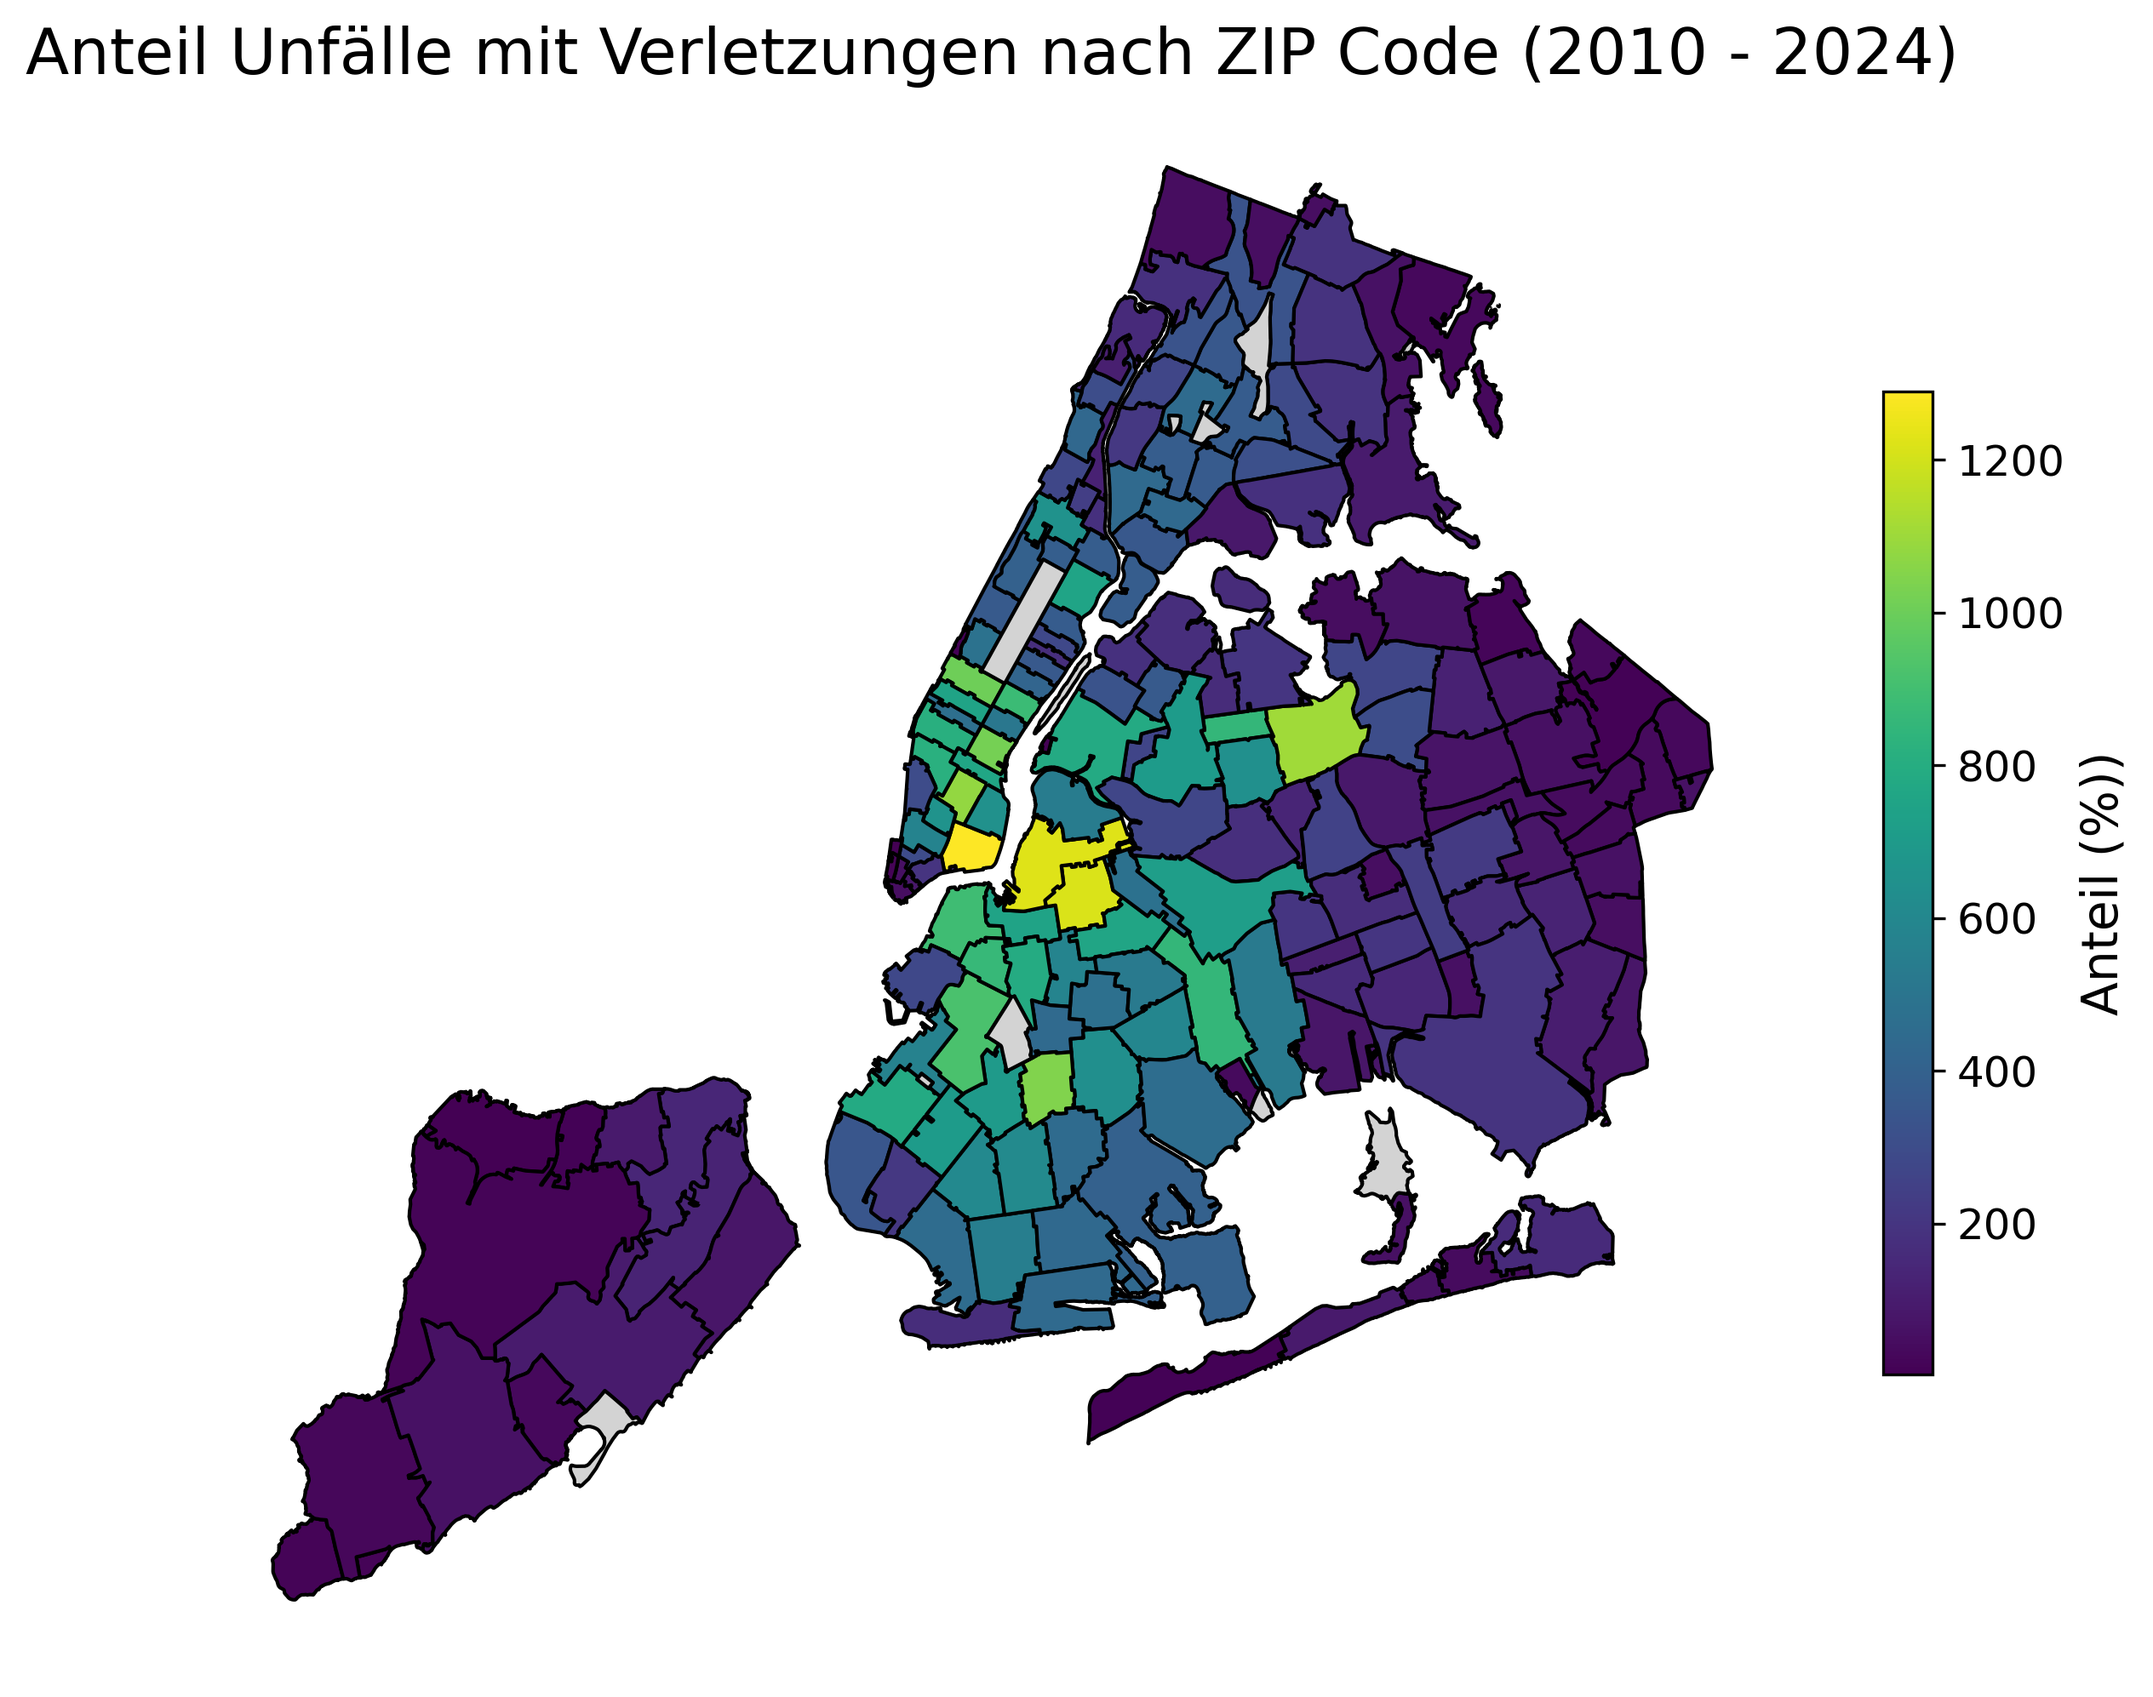
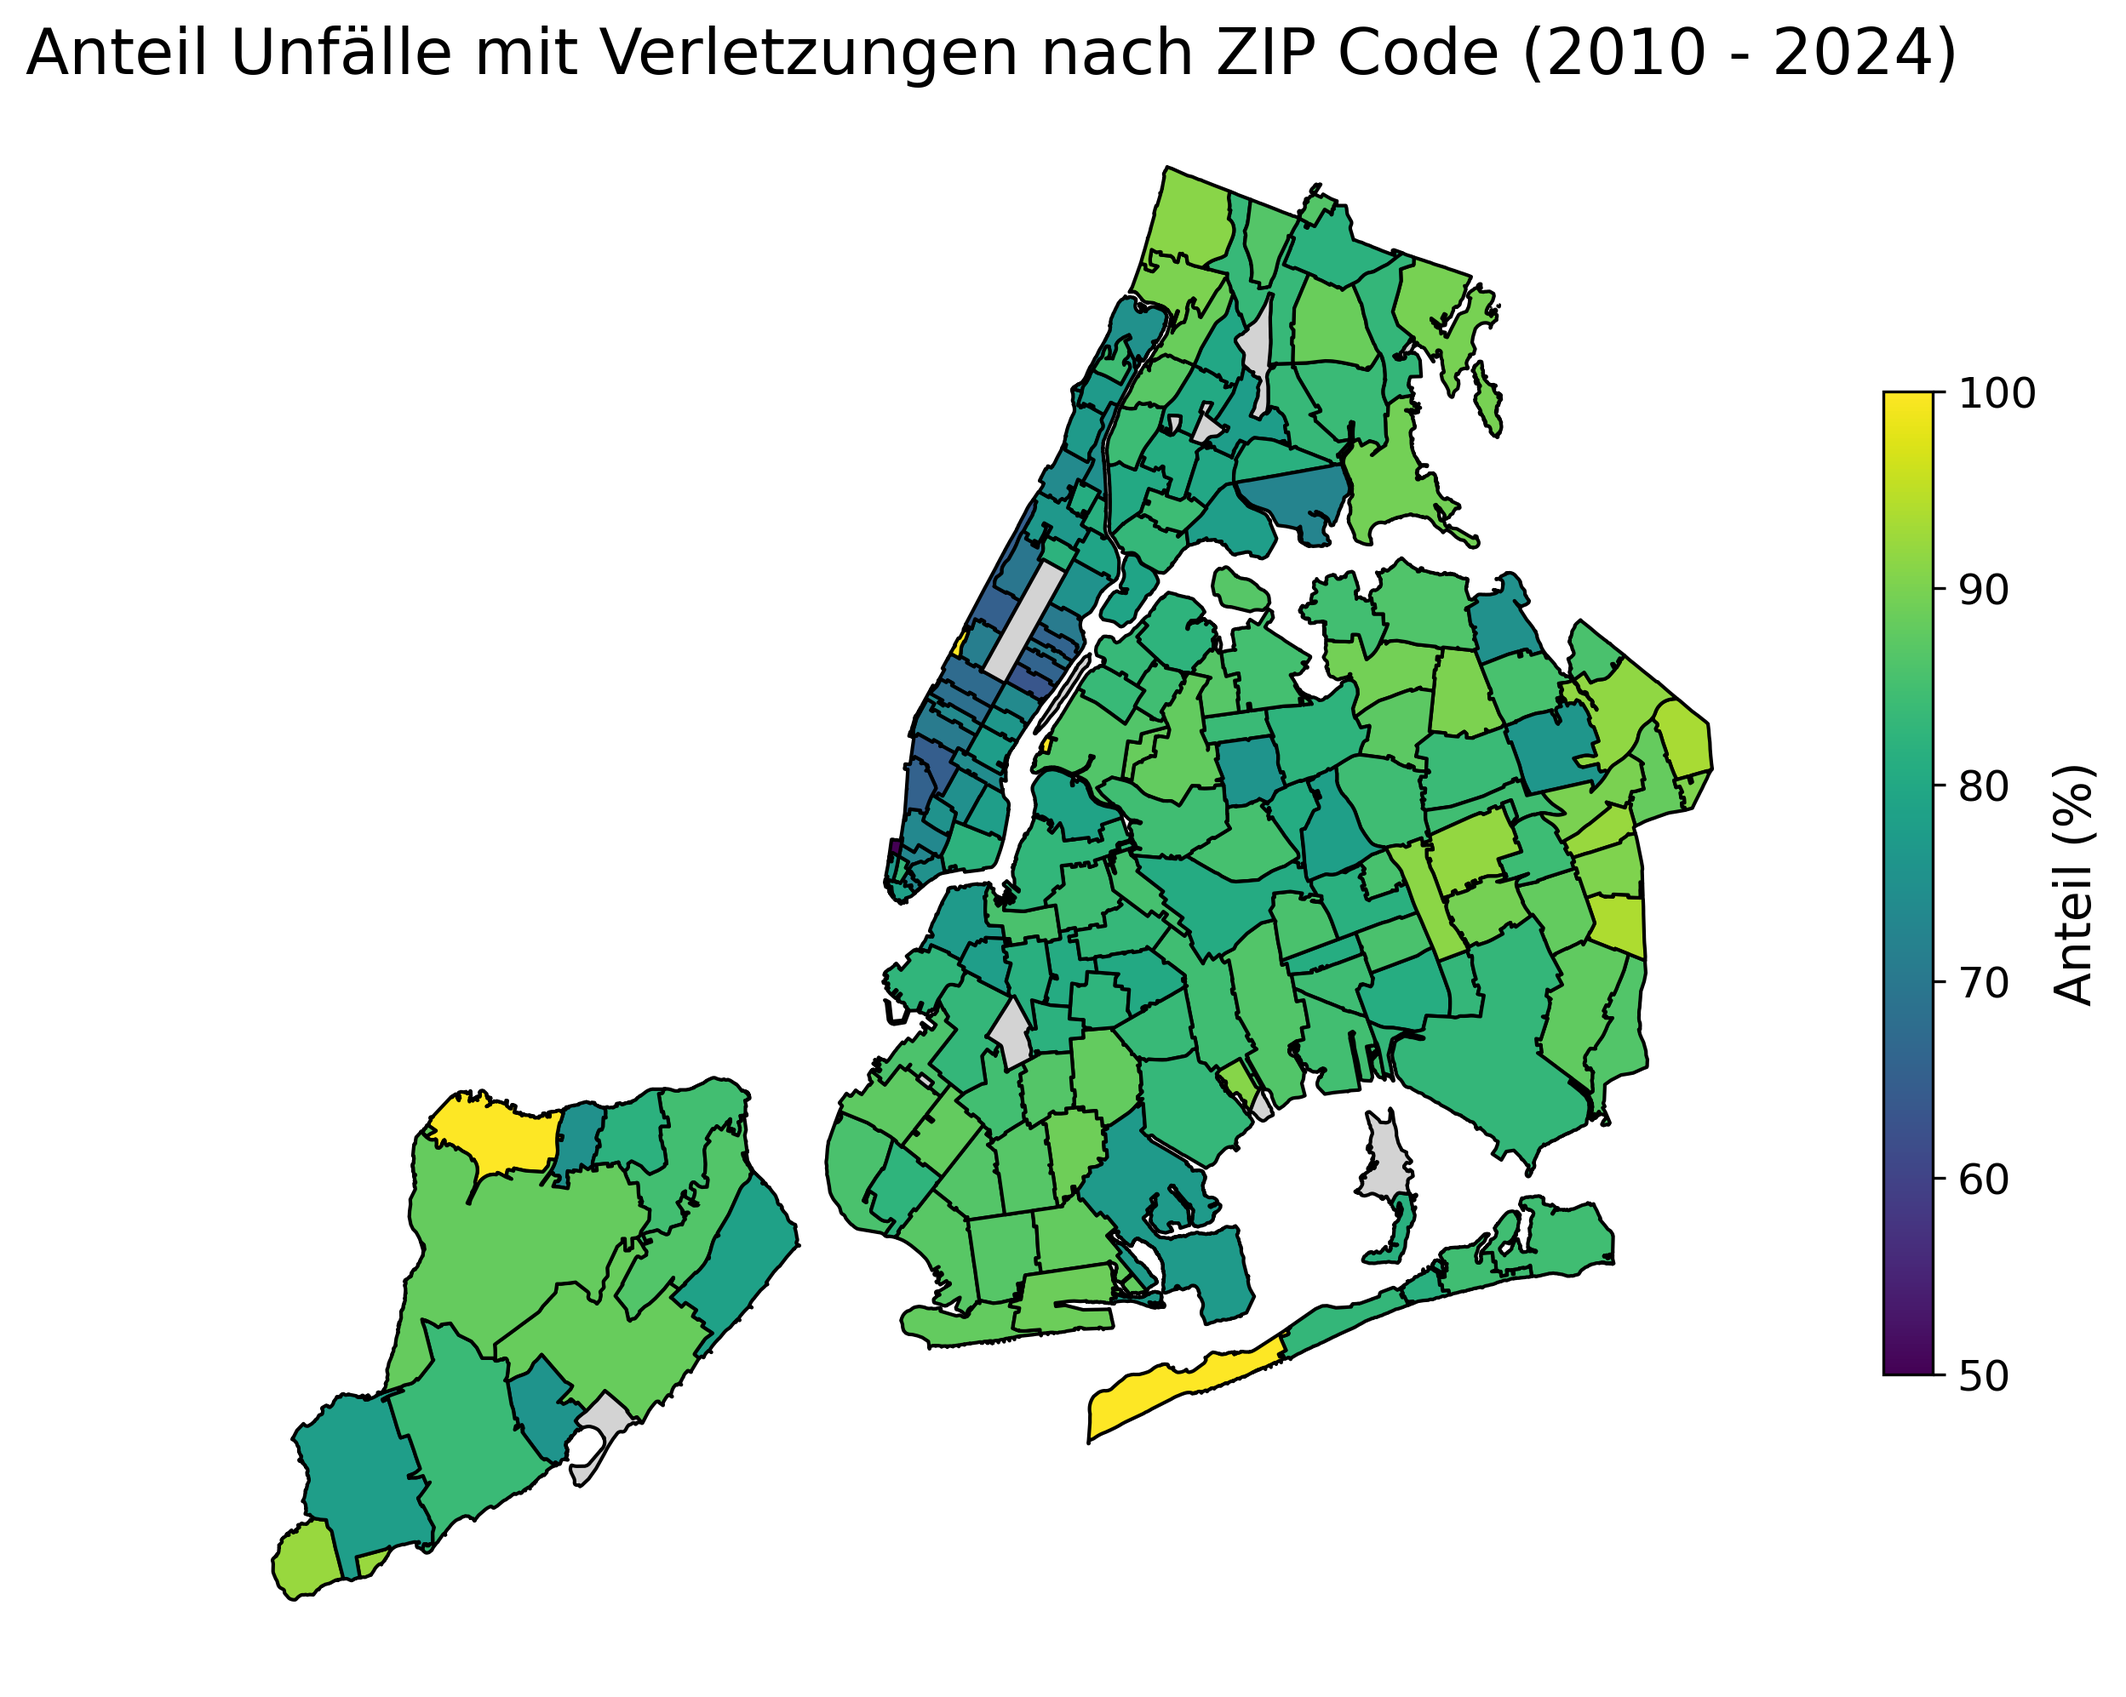
Adjust Typos

Changed region(s): [[0.1249, 0.0933, 0.8122, 0.9639], [0.0625, 0.0, 0.9059, 0.0622], [0.8746, 0.2177, 0.9996, 0.8084]]

diff --git a/02_analysis/descriptive_statistics_accidents.py b/02_analysis/descriptive_statistics_accidents.py
@@ -450,6 +450,7 @@ temp["zip_code"] = temp["zip_code"].astype(int).astype(str)
 # Extract values
 zip_codes = temp["zip_code"].tolist()
 bike_accidents = temp["bike_accidents"].tolist()
+injured_share = temp["injured_share"].tolist()
 
 # Call the map function
 sub_create_map.plot_zip_map(
@@ -463,9 +464,9 @@ sub_create_map.plot_zip_map(
 
 sub_create_map.plot_zip_map(
     zip_codes=zip_codes,
-    values=bike_accidents,
+    values=injured_share,
     output_name='bike_accidents_share_injured_zip',
     value_label='injured_share',
-    legend_label='Anteil (%))',
+    legend_label='Anteil (%)',
     plot_title='Anteil Unfälle mit Verletzungen nach ZIP Code (2010 - 2024)'
 )
